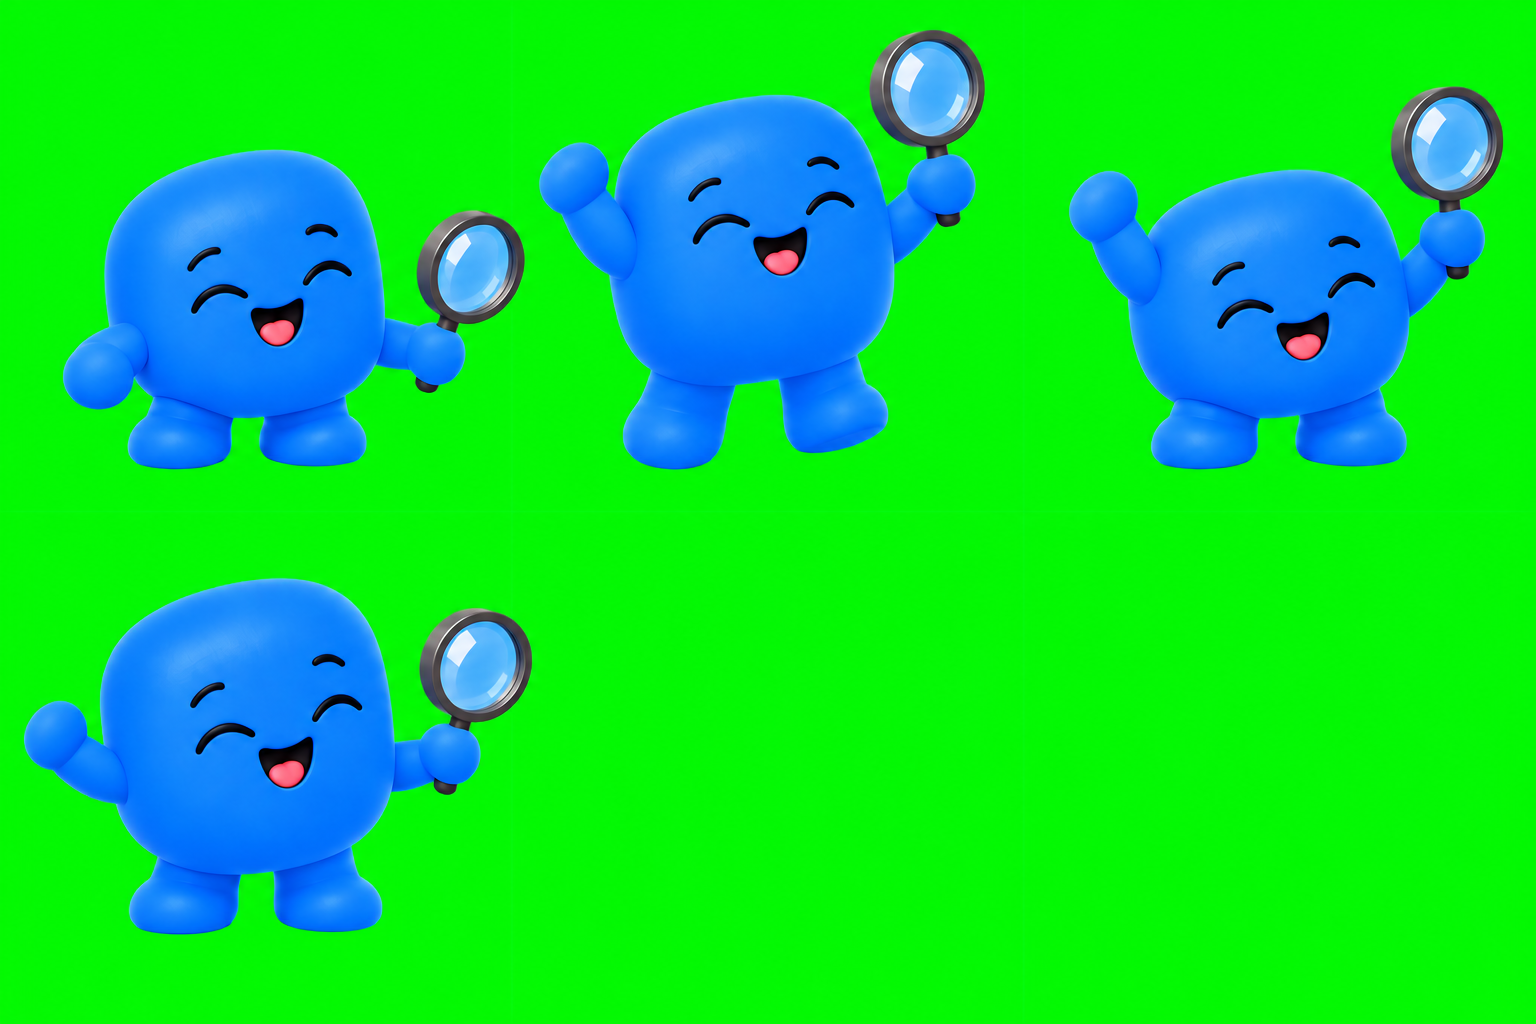
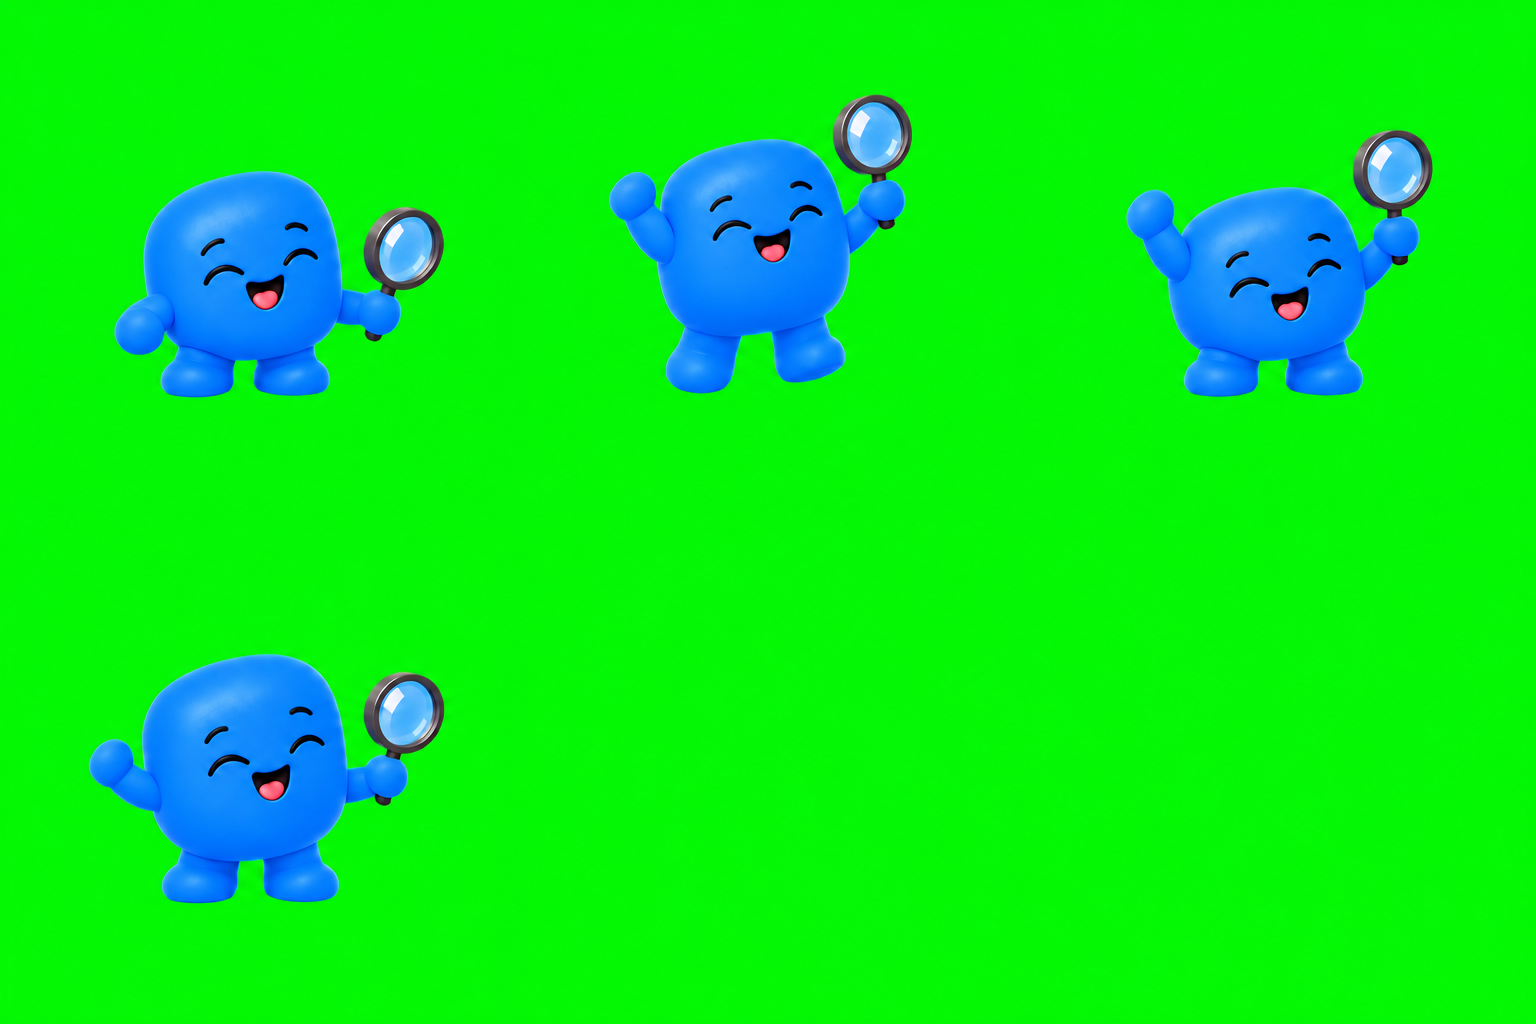
Correct the success sheet, and measure why these sheets cannot ship yet
The four new keyframe sheets were generated to unblock a 512px atlas cell and
a fourth cheering pose. Measured against the approved art, they unblock
neither, and the reason is one property nobody thought to specify.

Across the approved poses the full silhouette is 1.03-1.06x the torso width:
the magnifier is held in close to the body. Across these sheets it is
1.84-2.02x, because the arm is extended. That single ratio decides whether a
square cell can hold the body at full size and the magnifier at the same time,
and at 2x it cannot. Framed to match the torso the app ships today, the
magnifier is cut in half at the cell edge. Framed so nothing clips, the
character renders about 35% smaller than every other state — a worse artefact
than the blur the sheets were meant to cure, and visible the moment a screen
switches between states. The same reach breaks the interpolation independently:
the magnifier moves so far between poses that optical flow cannot follow it and
draws two of them in the in-between frames.

So the atlases are left as they are rather than rebuilt smaller. What lands
here is the corrected success sheet, which replaces a version whose poses ran
past the cell boundary, and the loader the artwork will need once it is right.

That loader exists because these sheets also drift. The feet wander up to 53px
between cells and the torso up to 13% within one sheet, and two greeting poses
cross the nominal boundary into each other, so a grid crop would put a slice of
[…]

Changed region(s): [[0.0312, 0.0312, 0.6562, 0.4688], [0.6875, 0.0625, 1.0, 0.4688], [0.0, 0.5625, 0.3438, 0.9375]]

diff --git a/scripts/mascot_keys.py b/scripts/mascot_keys.py
@@ -1,0 +1,180 @@
+"""Read a chroma-green keyframe sheet and hand back aligned, cropped poses.
+
+The sheets are generated art, not renders from a rig, so the "fixed camera" the
+pipeline needs is approximate at best: measured across the four sheets the feet
+wander up to 53px between cells and the torso width up to 13% within one sheet.
+Cropping on the nominal cell grid would ship that drift as a jump every time the
+animation reaches a new pose, which is exactly the artefact the fixed crop
+anchor in `prepare-expiry-escalation.py` exists to prevent. One sheet is worse
+than drift: two `greeting` poses run into each other across the nominal
+boundary, so a grid crop would put a slice of one character inside the next
+one's cell.
+
+So the anchor is measured rather than assumed. Each pose is found by the empty
+columns around it, then cropped into a window of one size per sheet, centred on
+the feet with the feet at a fixed height. The feet are the right anchor because
+they are the one part of this character that does not move: he crouches, leans
+and swings his arms, but he never leaves the ground. Anchoring on the whole
+silhouette would pull the body sideways whenever an arm extended, which is the
+failure the fixed grid was guarding against in the first place.
+
+One window size per sheet, never per pose. Normalising each pose to its own
+size would cancel the crouch in `success` and the lean in `scan` — the very
+motion the sequences are built out of.
+"""
+import cv2
+import numpy as np
+from PIL import Image, ImageFilter
+
+
+#: Torso width, in points of a 256px cell, that these four atlases ship at
+#: today: measured 215, 211, 216 and 211 on the four built from
+#: `mascot-atlas.png`. Holding it keeps the character exactly the size he is
+#: now, so this change alters how he moves and nothing else. (The escalation
+#: trio sits nearer 190 and six-seven nearer 165; that disagreement already
+#: ships and is not this task's to settle.)
+TORSO_AT_256 = 213
+
+#: Radius the torso is eroded by, in points of a 256px cell. Big enough to take
+#: the arms, legs and magnifier off, small enough to leave the body.
+ERODE_AT_256 = 23
+
+#: Where the feet sit in the cropped cell, matching the existing 512px sheets
+#: (feet at y 454-469 of 512).
+FEET_FRACTION = 0.92
+
+#: A column with fewer occupied pixels than this counts as background. Small
+#: enough to catch a magnifier handle, large enough to ignore keyer speckle.
+MIN_COLUMN = 3
+
+#: Narrower than this and a span is a keying artefact, not a character.
+MIN_POSE_WIDTH = 60
+
+
+def cutout(path):
+    """Key the chroma green, using the escalation sheet's keyer exactly.
+
+    The spill suppression and the one-pixel alpha erosion are not optional:
+    green left at the silhouette becomes a halo on the app's dark theme.
+    """
+    with Image.open(path) as source:
+        rgb = np.asarray(source.convert('RGB')).astype(np.float32)
+    excess = rgb[:, :, 1] - np.maximum(rgb[:, :, 0], rgb[:, :, 2])
+    alpha = 1 - np.clip(excess / 80, 0, 1)
+    rgb[:, :, 1] = np.minimum(rgb[:, :, 1], np.maximum(rgb[:, :, 0], rgb[:, :, 2]))
+    keyed = Image.fromarray(np.uint8(np.dstack((rgb, alpha * 255))))
+    keyed.putalpha(keyed.getchannel('A').filter(ImageFilter.MinFilter(3)))
+    return keyed
+
+
+def _spans(occupied):
+    """Column runs that hold a character, in order."""
+    runs, start = [], None
+    for x, filled in enumerate(occupied):
+        if filled and start is None:
+            start = x
+        elif not filled and start is not None:
+            runs.append((start, x))
+            start = None
+    if start is not None:
+        runs.append((start, len(occupied)))
+    return [run for run in runs if run[1] - run[0] >= MIN_POSE_WIDTH]
+
+
+def _torso(alpha, radius):
+    """Width of the body with the arms, magnifier and legs eroded away.
+
+    A plain bounding box measures whichever limb is furthest out, which is a
+    property of the pose rather than of the camera. The torso is what has to
+    stay the same size between poses, so the torso is what gets measured.
+
+    The radius has to travel with the scale being measured at. An erosion that
+    strips the arms off a 256px cell leaves most of them on a 512px one, so a
+    source measured at one radius and an atlas checked at another disagree by
+    about 30% — which is how the first build of these sheets came out that much
+    oversized.
+    """
+    eroded = cv2.erode((alpha > 8).astype(np.uint8), np.ones((radius, radius), np.uint8))
+    count, _, stats, _ = cv2.connectedComponentsWithStats(eroded)
+    if count < 2:
+        return None
+    largest = 1 + stats[1:, cv2.CC_STAT_AREA].argmax()
+    return stats[largest, cv2.CC_STAT_WIDTH] + radius - 1
+
+
+def _anchor(alpha, x0, x1):
+    """Where this pose stands: the centre of its feet, and the ground line."""
+    window = alpha[:, x0:x1]
+    rows, _ = np.nonzero(window > 8)
+    ground = rows.max() + 1
+    _, feet_x = np.nonzero(window[ground - 40:ground, :] > 8)
+    return x0 + feet_x.mean(), ground
+
+
+def _crop(keyed, pose, window, cell):
+    """One pose, cut to `window` square on its own feet and resized to `cell`.
+
+    `Image.crop` pads past the sheet's edges with transparency, which is what a
+    pose standing near the border needs.
+    """
+    left = int(round(pose['centre'] - window / 2))
+    top = int(round(pose['ground'] + window * (1 - FEET_FRACTION) - window))
+    cropped = keyed.crop((left, top, left + window, top + window))
+    return cropped.resize((cell, cell), Image.Resampling.LANCZOS)
+
+
+def load_sheet(path, cell, expected=None):
+    """Every pose on the sheet, keyed, aligned and resized to `cell` square.
+
+    Poses come back in reading order: the top row left to right, then the row
+    below it. Empty cells contribute nothing, so a three-pose sheet returns
+    three poses rather than three poses and a hole.
+    """
+    keyed = cutout(path)
+    alpha = np.asarray(keyed)[:, :, 3]
+    height, width = alpha.shape
+    band_height = height // 2
+
+    found = []
+    for band in range(2):
+        top, bottom = band * band_height, (band + 1) * band_height
+        strip = alpha[top:bottom, :]
+        occupied = (strip > 8).sum(axis=0) >= MIN_COLUMN
+        for x0, x1 in _spans(occupied):
+            centre, ground = _anchor(strip, x0, x1)
+            found.append({
+                'centre': centre,
+                'ground': top + ground,
+                'bbox': x1 - x0,
+                'span': (x0, x1),
+            })
+
+    if expected is not None and len(found) != expected:
+        raise ValueError(f'{path}: found {len(found)} poses, expected {expected}')
+
+    # One window for the whole sheet. The median torso is the sheet's scale;
+    # using each pose's own would flatten the crouches and leans back out.
+    #
+    # Solved rather than computed in one step, because the window size and the
+    # torso measurement each depend on the other: the erosion radius that
+    # isolates a torso is defined at the output scale, and the output scale is
+    # what the window decides. Measuring the source at one radius and the atlas
+    # at another is how the first build of these sheets came out 29% oversized.
+    # A damped fixed point from a rough guess, because the undamped one
+    # oscillates: a window small enough to clip the character reads its torso
+    # as the whole cell, which throws the next guess as far the other way.
+    # Pulling only part of the way each pass converges in about eight.
+    target = TORSO_AT_256 * cell / 256
+    radius = max(3, int(round(ERODE_AT_256 * cell / 256)))
+    window = int(round(float(np.median([pose['bbox'] for pose in found])) * 1.15))
+    for _ in range(12):
+        measured = float(np.median([
+            _torso(np.asarray(_crop(keyed, pose, window, cell))[:, :, 3], radius)
+            for pose in found]))
+        # Too big on screen means the window was too tight: widen it.
+        window = max(cell // 4, int(round(window * (measured / target) ** 0.6)))
+
+    poses = [_crop(keyed, pose, window, cell) for pose in found]
+    torso = float(np.median([
+        _torso(np.asarray(pose)[:, :, 3], radius) for pose in poses]))
+    return poses, {'window': window, 'torso': torso, 'poses': found}

diff --git a/assets/mascot/3d/README.md b/assets/mascot/3d/README.md
@@ -15,6 +15,41 @@ The opaque source draft and old preview are not referenced by the application.
 Reference: user-provided `original_app_mascot.png`.
 Generated using the built-in image generation tool on 2026-09-10.
 
+## New keyframe sheets: measured, not yet usable
+
+`source/scan-keyframes.png`, `greeting-`, `concern-` and `success-keyframes.png`
+are 1536x1024 sheets of 512px cells, generated to unblock two things: a 512px
+atlas cell, and a fourth `success` pose so cheering can cycle instead of
+bouncing between two. Neither is unblocked yet. Measured against the approved
+art they carry two defects that cropping cannot reach.
+
+**The character is drawn too small in the cell.** The torso is 201-331px where
+the existing 512px sheets carry 379. Framed so the torso matches what ships,
+the magnifier falls outside the cell and is cut in half; framed so nothing is
+clipped, the character renders about 35% smaller than every other state, which
+is worse than the blur it was meant to fix.
+
+**The arms are extended too far.** This is the root of it. Across the approved
+poses the full silhouette is 1.03-1.06x the torso width — the magnifier is held
+in close. Across these sheets it is 1.84-2.02x. That ratio is what decides
+whether a square cell can hold both the body at full size and the magnifier,
+and at 2x it cannot. It also breaks the interpolation: the magnifier travels so
+far between poses that optical flow loses it and renders two of them in the
+in-between frames.
+
+What a regeneration needs, beyond the existing brief: **the magnifier and both
+hands stay close to the body, so the full silhouette is no wider than about
+1.1x the torso**, and the torso fills roughly three quarters of the cell, as it
+does in `source/escalation-keyframes.png`. Pose variety has to come from the
+body leaning, crouching and rising rather than from the arms reaching out.
+
+`scripts/mascot_keys.py` is ready for that artwork. It keys the green, finds
+each pose by the empty columns around it, and crops on the feet rather than on
+the nominal grid — needed because these sheets drift up to 53px vertically
+between cells, and because two `greeting` poses cross the cell boundary into
+each other. It solves the window size against a torso measured at the output
+scale, so the character lands the size he already is.
+
 ## Character invariants
 
 Cobalt-blue rounded square body, large white eyes with dark pupils and white
